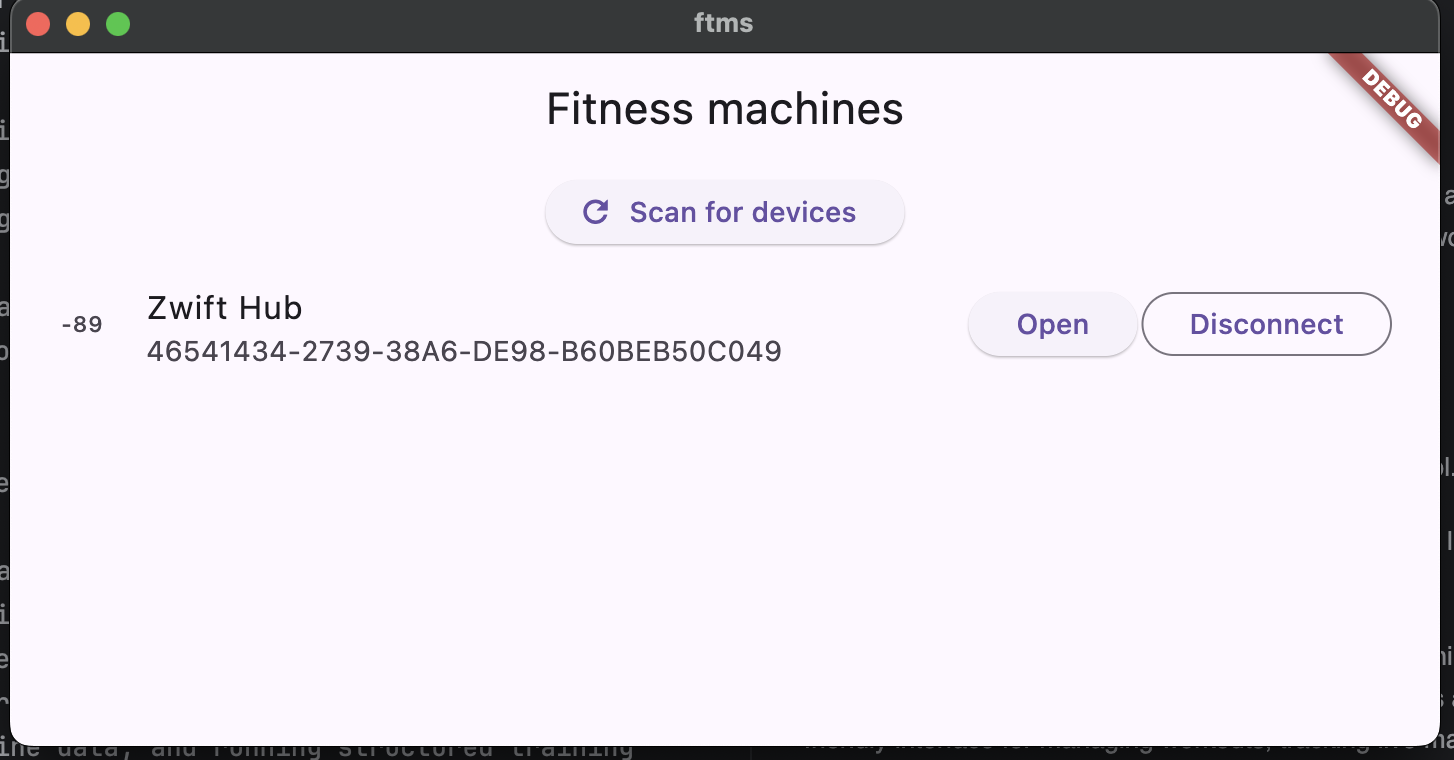
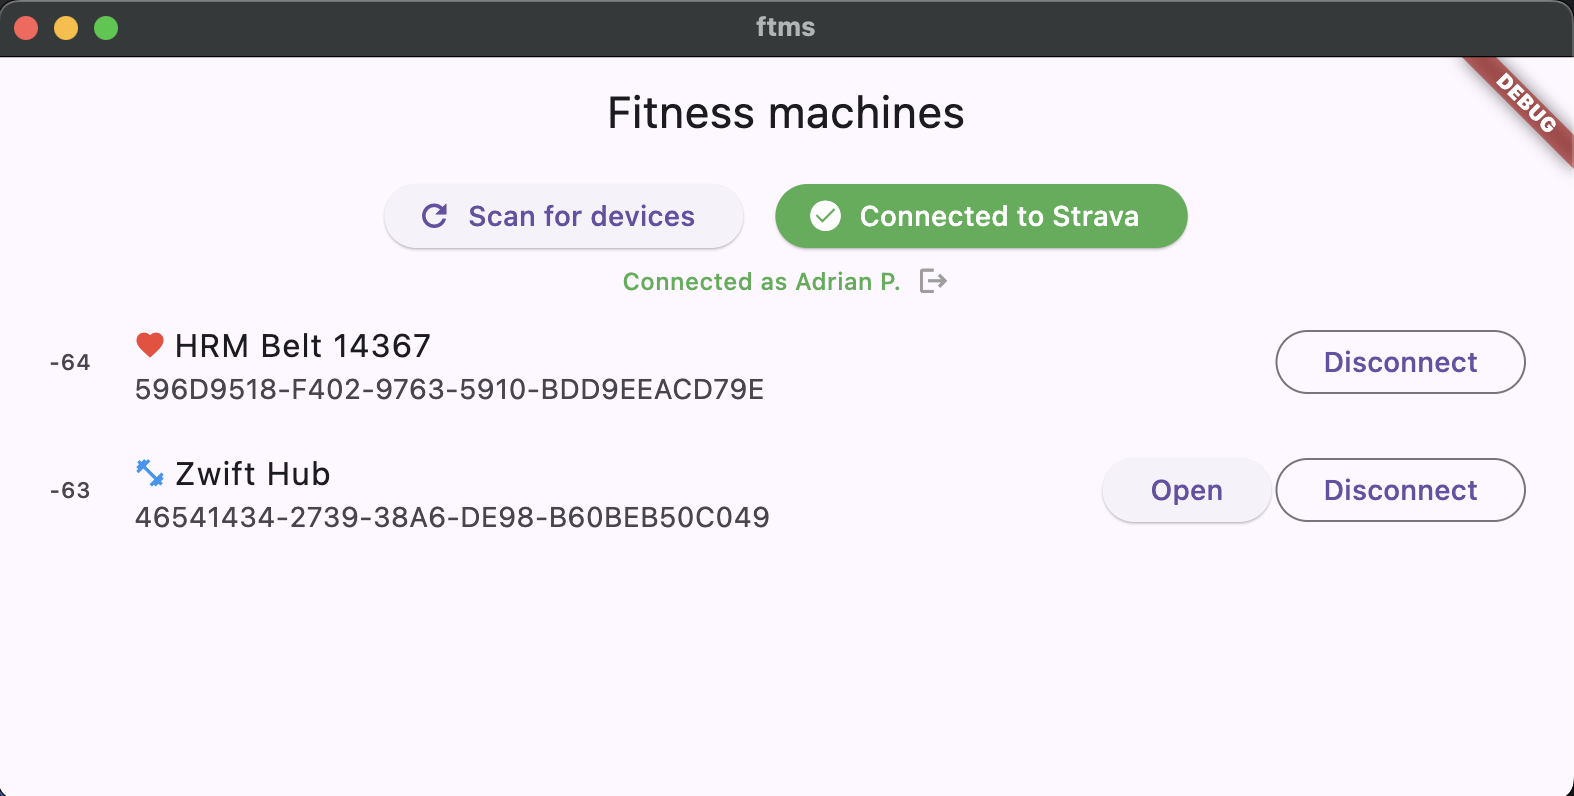
doc update

diff --git a/README.md b/README.md
@@ -14,33 +14,34 @@ I was looking for a way to learn Flutter and this seemed like a good project to 
 
 It is based on flutter_ftms (https://github.com/Malte2036/flutter_ftms), a Flutter package for FTMS Bluetooth connectivity. Nice work, BTW, it saves a lot of time for translating complicated hex bluetooth codes into meaningful, human readable data.
 
-## embed the images from doc directory here
+## Screenshots
 ![App Screenshot](doc/screen1.png)
 ![App Screenshot](doc/screen2.png)
 ![App Screenshot](doc/screen3.png)
+![App Screenshot](doc/screen4.png)
 
 
 ## Main Features
 
 - **FTMS Bluetooth Connectivity**: scan for and connect to FTMS-compatible fitness machines ( bikes, rowers) using Bluetooth Low Energy (BLE).
+- **Heart rate monitoring**: connect to heart rate monitors (HRMs) via Bluetooth and display real-time heart rate data.
 - **Live Data Display**: View real-time metrics from your connected machine.
-- **Structured Training Sessions**: load and execute interval-based training sessions with support for both simple and grouped intervals (unit/group model).
+- **Structured Training Sessions**: load and execute interval-based training sessions with support for both simple and grouped intervals.
 - **Session Progress Tracking**: Visual progress bar and detailed feedback during workouts, including interval targets and completion status.
-- **FIT file generation**: When a training session is over, a FIT file is generated for the moment in the application private storage. 
+- **FIT file generation**: When a training session is over, a FIT file is generated in the application private storage and automatically sent to Strava. 
 
 For build, test, and usage instructions, see the rest of this README.
 
 ## Features I'm thinking about
 
-- Control the machine resistance. I tried to implement this but for some reason it doesn't work. I'm still digging into it.
+- Control the machine resistance (ERG mode). I tried to implement this but for some reason it doesn't work. I'm still digging into it.
 - Training session editor (for the moment, the training sessions are manually defined files in `lib/training-sessions/`)
-- Upload training sessions FIT files to Strava.
-- User preferences: FTP, max heart rate, etc
+- User preferences: FTP, max heart rate, etc (hardcoded for the moment)
 
 ## Getting Started
 
 ### Prerequisites
-- [Flutter SDK](https://flutter.dev/docs/get-started/install) (3.6.0 or newer recommended)
+- [Flutter SDK](https://flutter.dev/docs/get-started/install) 
 - Java 21 for Android builds
 - Android Studio and/or Xcode for mobile builds (I'm on a Mac M4, I don't really know if it works on other platforms)
 - Bluetooth activated on your device
